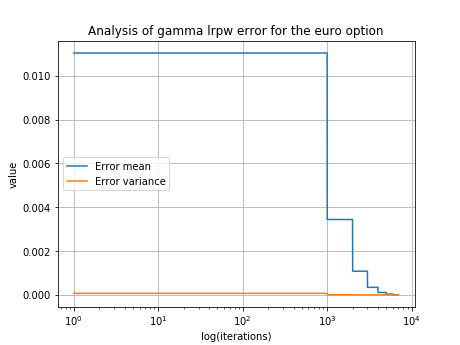
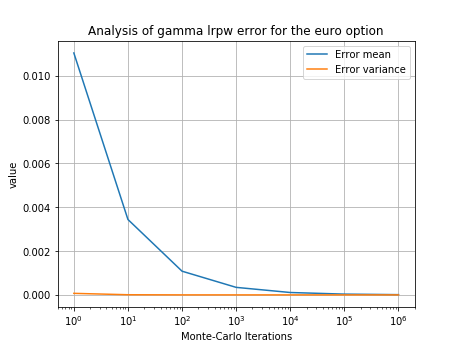
Updated: graphs, solved issue #26

diff --git a/report/graphs/graphs_creator.py b/report/graphs/graphs_creator.py
@@ -3,11 +3,8 @@ import pandas as pd
 import numpy as np
 
 data = pd.DataFrame.from_csv('core_task.csv', sep=';')
-data.tail()
-
-
-
-data["delta lr err"] = np.abs(data["delta lr"] - data["delta th"])
+#data.tail()
+print('Data loaded.')
 
 
 mytype = "euro"
@@ -29,14 +26,33 @@ for element in greeks_names:
     my_dpi = 72
     plt.figure(figsize=(1000/my_dpi, 600/my_dpi), dpi=my_dpi)
     fig, ax = plt.subplots()
-    ax.semilogx([data[data.index==i][element + " err"].mean() for i in data.index.values], label='Error mean')
-    ax.semilogx([data[data.index==i][element + " err"].var() for i in data.index.values], label='Error variance')
+    ax.semilogx(data.index, [data[data.index==i][element + " err"].mean() for i in data.index.values], label='Error mean')
+    ax.semilogx(data.index,[data[data.index==i][element + " err"].var() for i in data.index.values], label='Error variance')
     ax.grid()
     plt.title('Analysis of ' + element + " error for the " + mytype + ' option')
-    plt.xlabel('log(iterations)')
+    plt.xlabel('Monte-Carlo Iterations')
     plt.ylabel('value')
     plt.legend()
     plt.savefig(mytype + element.replace(' ', '') + '.png', dpi=my_dpi)
+    print('Created: ' + mytype + element.replace(' ', '') + '.png')
+    plt.close()
+
+for element in greeks_names:
+    data[str(element + " err")] = np.abs(data[element] - data[str(element.rsplit(' ', 1)[0] + " th")])
+    my_dpi = 72
+    plt.figure(figsize=(1000/my_dpi, 600/my_dpi), dpi=my_dpi)
+    fig, ax = plt.subplots()
+    runtime = [data[data.index==i][element + " time"].mean() for i in data.index.values]
+    ax.semilogx(runtime, [data[data.index==i][element + " err"].mean() for i in data.index.values], label='Error mean')
+    ax.semilogx(runtime,[data[data.index==i][element + " err"].var() for i in data.index.values], label='Error variance')
+    ax.grid()
+    plt.title('Analysis of ' + element + " error for the " + mytype + ' option')
+    plt.xlabel('Computing time')
+    plt.ylabel('value')
+    plt.legend()
+    plt.savefig(mytype + element.replace(' ', '') + 'time.png', dpi=my_dpi)
+    print('Created: ' + mytype + element.replace(' ', '') + 'time.png')
+    plt.close()
 
 for element in greeks_names:
     print(element + ' error mean: ' + str(data[data.index==100000][element + " err"].mean()))
